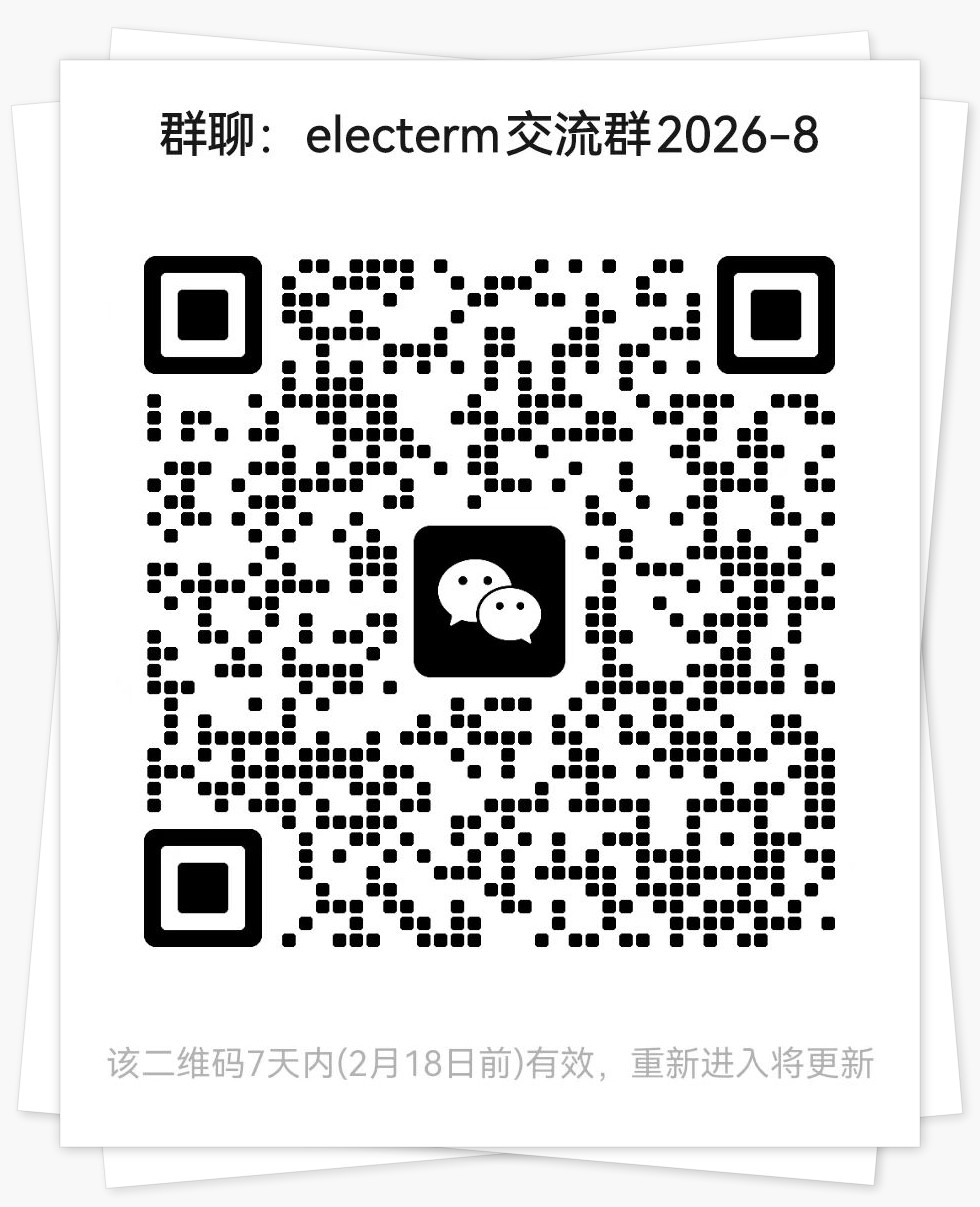
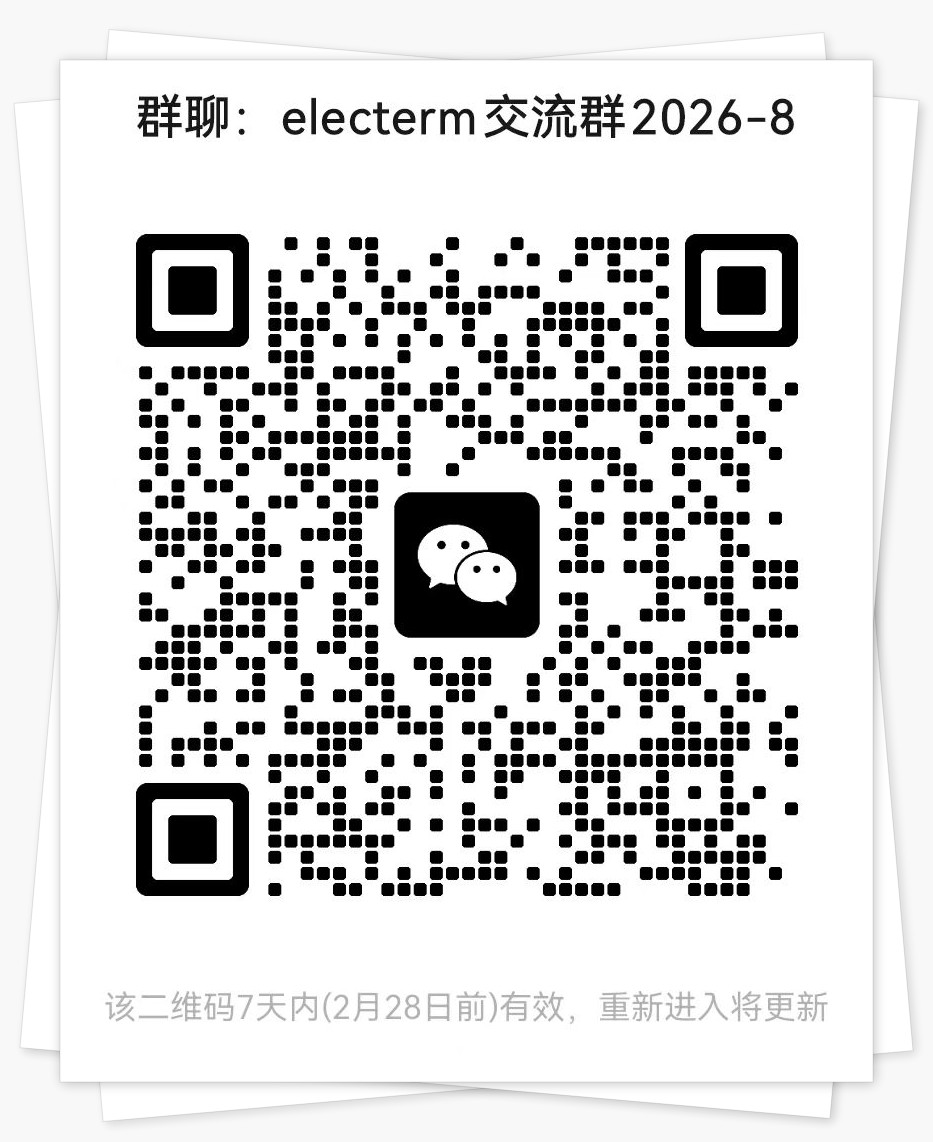
Update animation and qrcode

diff --git a/src/static/js/animate.js b/src/static/js/animate.js
@@ -1,0 +1,193 @@
+class TerminalBg {
+  constructor (options = {}) {
+    this.className = options.className || 'animate'
+    this.color = options.color || '#666666'
+    this.bgColor = options.bgColor || '#ffffff'
+    this.fontSize = options.fontSize || 18
+    this.speed = options.speed || 0.8
+    this.lines = []
+    this.canvas = null
+    this.ctx = null
+    this.animationId = null
+    this.lastTime = 0
+    this.frameInterval = 40
+    this.init()
+  }
+
+  getTexts () {
+    return [
+      '终端/SSH/SFTP/Telnet/串口/RDP/VNC客户端',
+      '全局热键切换窗口可见性',
+      '多平台支持 Linux/Mac/Windows',
+      '多语言支持',
+      '双击直接编辑远程文件',
+      '公钥+密码认证',
+      '支持 Zmodem (rz/sz)',
+      '支持 SSH 隧道',
+      '支持 Trzsz (trz/tsz)',
+      '透明窗口',
+      '终端背景图片',
+      '全局/会话代理',
+      '快捷命令',
+      'UI/终端主题',
+      '同步书签到 GitHub/Gitee',
+      'AI 助手集成',
+      '支持 DeepSeek/OpenAI',
+      '深度链接支持',
+      '命令行使用',
+      'SSH/SFTP 文件传输',
+      '批量操作',
+      '多终端同步输入',
+      'VNC 远程桌面',
+      'RDP 远程桌面',
+      '串口终端',
+      'Telnet 连接',
+      'FTP 客户端',
+      'Terminal/SSH/SFTP/Telnet/Serial/RDP/VNC client',
+      'Global hotkey to toggle window',
+      'Multi platform: Linux/Mac/Windows',
+      'Multi-language support',
+      'Double click to edit remote files',
+      'Auth with publicKey + password',
+      'Support Zmodem (rz/sz)',
+      'Support SSH tunnel',
+      'Support Trzsz (trz/tsz)',
+      'Transparent window',
+      'Terminal background image',
+      'Global/session proxy',
+      'Quick commands',
+      'UI/terminal themes',
+      'Sync to GitHub/Gitee gist',
+      'AI assistant integration',
+      'Support DeepSeek/OpenAI',
+      'Deep link support',
+      'Command line usage',
+      'SSH/SFTP file transfer',
+      'Batch operations',
+      'Multi-terminal sync input',
+      'VNC remote desktop',
+      'RDP remote desktop',
+      'Serial port terminal',
+      'Telnet connection',
+      'FTP client'
+    ]
+  }
+
+  init () {
+    let container = document.querySelector(`.${this.className}`)
+    if (!container) {
+      container = document.createElement('div')
+      container.className = this.className
+      document.body.insertBefore(container, document.body.firstChild)
+    }
+    container.style.cssText = 'position:fixed;left:0;right:0;top:0;bottom:0;z-index:-1;overflow:hidden;'
+    this.container = container
+    this.canvas = document.createElement('canvas')
+    this.canvas.style.cssText = 'position:absolute;top:0;left:0;width:100%;height:100%;pointer-events:none;'
+    container.appendChild(this.canvas)
+    this.ctx = this.canvas.getContext('2d')
+    this.texts = this.getTexts()
+    this.resize()
+    window.addEventListener('resize', this.handleResize.bind(this))
+    this.animate()
+  }
+
+  handleResize () {
+    if (this.resizeTimeout) {
+      clearTimeout(this.resizeTimeout)
+    }
+    this.resizeTimeout = setTimeout(() => {
+      this.resize()
+    }, 100)
+  }
+
+  resize () {
+    const container = this.canvas.parentElement
+    const dpr = Math.min(window.devicePixelRatio || 1, 2)
+    const rect = container.getBoundingClientRect()
+    this.canvas.width = rect.width * dpr
+    this.canvas.height = rect.height * dpr
+    this.canvas.style.width = rect.width + 'px'
+    this.canvas.style.height = rect.height + 'px'
+    this.ctx.scale(dpr, dpr)
+    this.width = rect.width
+    this.height = rect.height
+    this.initLines()
+  }
+
+  initLines () {
+    const lineCount = Math.max(20, Math.floor(this.width / 80))
+    const texts = this.texts
+    this.lines = []
+    const angle = Math.PI / 6
+    for (let i = 0; i < lineCount; i++) {
+      const progress = i / lineCount
+      const startX = -this.width * 0.5 + progress * (this.width * 1.5)
+      const startY = -this.height * 0.3 + progress * (this.height * 1.3) - Math.random() * 150
+      this.lines.push({
+        x: startX,
+        y: startY,
+        angle,
+        speed: (0.3 + Math.random() * 0.4) * this.speed,
+        text: texts[Math.floor(Math.random() * texts.length)],
+        opacity: 0.08 + Math.random() * 0.1,
+        fontSize: this.fontSize + Math.floor(Math.random() * 6)
+      })
+    }
+  }
+
+  animate (timestamp = 0) {
+    this.animationId = requestAnimationFrame(this.animate.bind(this))
+    const delta = timestamp - this.lastTime
+    if (delta < this.frameInterval) return
+    this.lastTime = timestamp - (delta % this.frameInterval)
+    this.ctx.fillStyle = this.bgColor
+    this.ctx.fillRect(0, 0, this.width, this.height)
+    for (const line of this.lines) {
+      const moveX = Math.cos(line.angle) * line.speed * 2
+      const moveY = Math.sin(line.angle) * line.speed * 2
+      line.x += moveX
+      line.y += moveY
+      if (line.y > this.height + 50 || line.x > this.width + 50) {
+        line.x = -this.width * 0.5 + Math.random() * this.width * 0.3
+        line.y = -100 - Math.random() * 100
+        line.text = this.texts[Math.floor(Math.random() * this.texts.length)]
+        line.opacity = 0.08 + Math.random() * 0.1
+      }
+      this.ctx.save()
+      this.ctx.translate(line.x, line.y)
+      this.ctx.rotate(line.angle)
+      this.ctx.font = `${line.fontSize}px monospace`
+      this.ctx.fillStyle = this.hexToRgba(this.color, line.opacity)
+      this.ctx.fillText(line.text, 0, 0)
+      this.ctx.restore()
+    }
+  }
+
+  hexToRgba (hex, alpha) {
+    const result = /^#?([a-f\d]{2})([a-f\d]{2})([a-f\d]{2})$/i.exec(hex)
+    if (result) {
+      return `rgba(${parseInt(result[1], 16)}, ${parseInt(result[2], 16)}, ${parseInt(result[3], 16)}, ${alpha})`
+    }
+    const rgbMatch = hex.match(/^rgb\((\d+),\s*(\d+),\s*(\d+)\)$/)
+    if (rgbMatch) {
+      return `rgba(${rgbMatch[1]}, ${rgbMatch[2]}, ${rgbMatch[3]}, ${alpha})`
+    }
+    return `rgba(102, 102, 102, ${alpha})`
+  }
+
+  destroy () {
+    if (this.animationId) {
+      cancelAnimationFrame(this.animationId)
+    }
+    window.removeEventListener('resize', this.handleResize.bind(this))
+    if (this.canvas && this.canvas.parentElement) {
+      this.canvas.parentElement.removeChild(this.canvas)
+    }
+    if (this.container && this.container.parentElement) {
+      this.container.parentElement.removeChild(this.container)
+    }
+  }
+}
+
+export default TerminalBg
